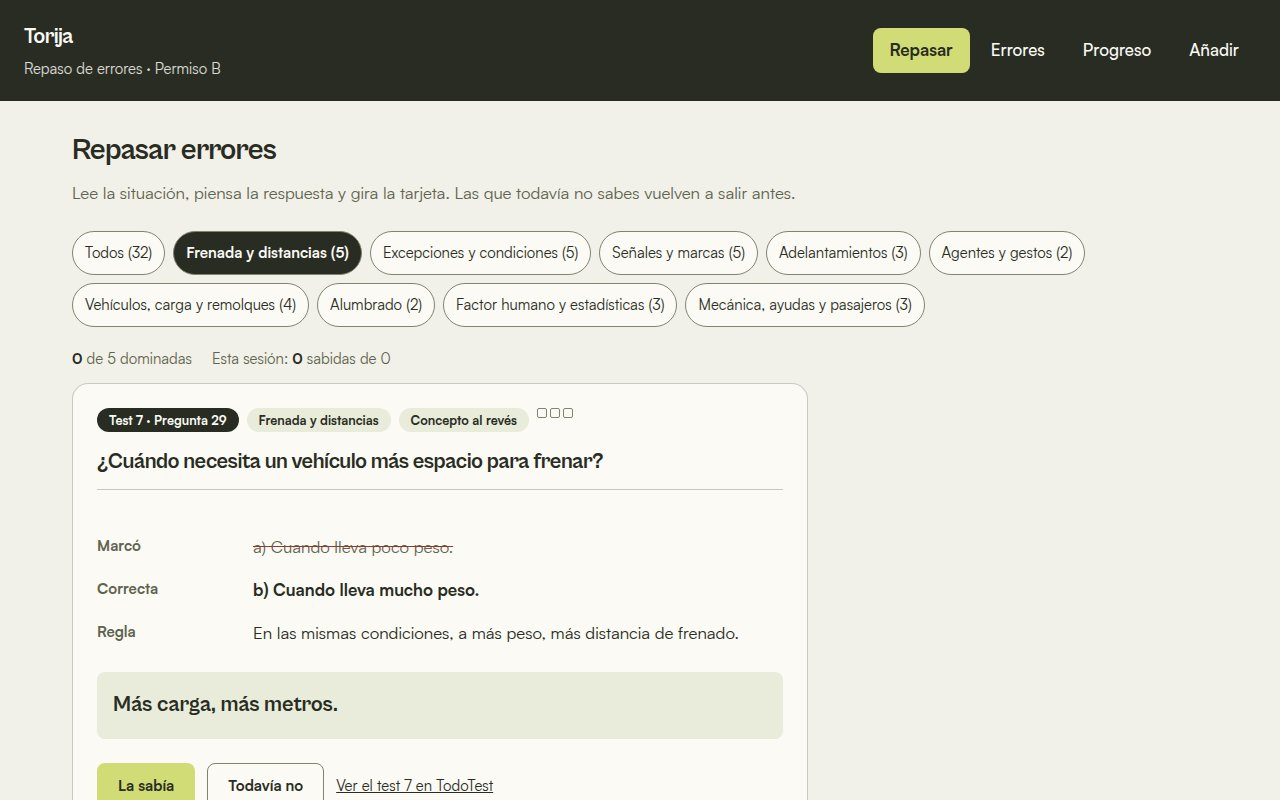
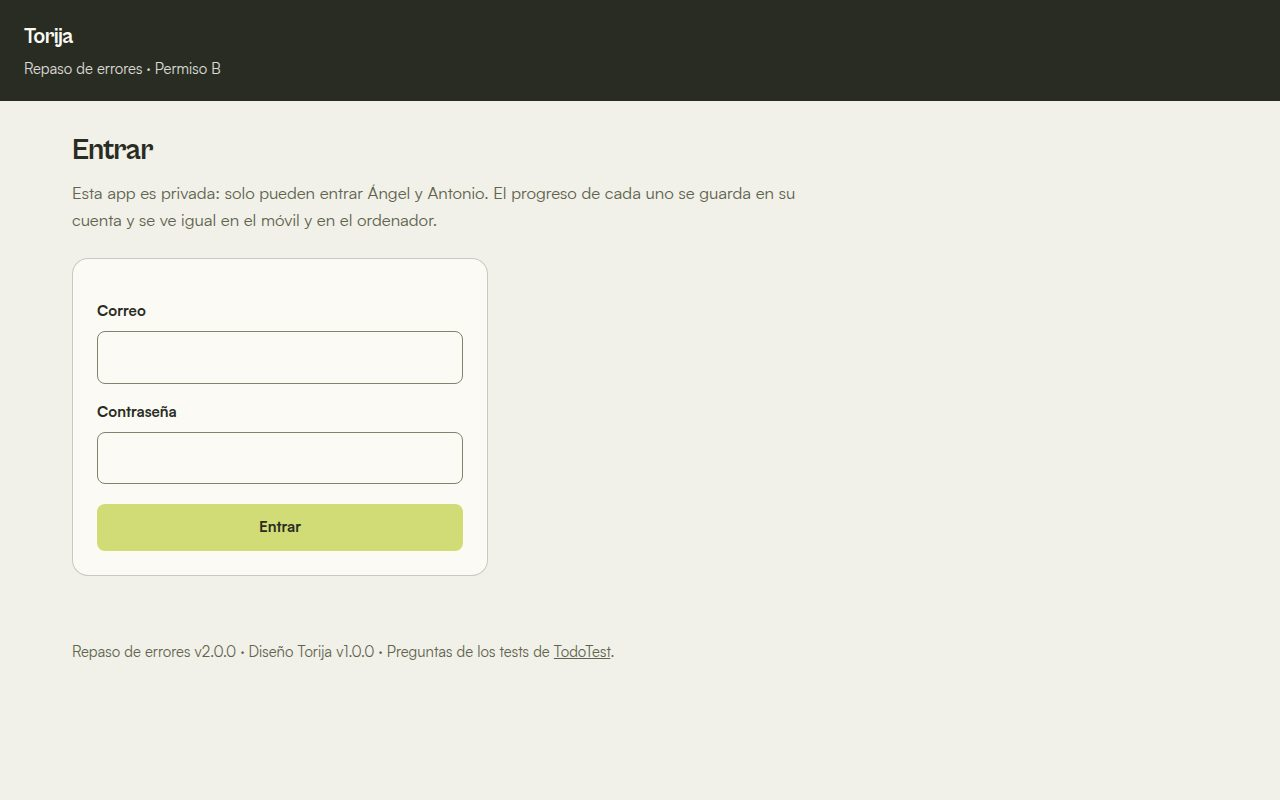
Dossier 1.3.15: Repaso de errores · Permiso B v2.0.0 con cuenta

diff --git a/index.html b/index.html
@@ -118,7 +118,7 @@ footer{border-top:1px solid var(--line);padding:28px 0 48px;color:var(--muted);f
       <div class="mode">
         <span class="tag web">Desde internet</span>
         <h2>Consulta el tipo de acceso</h2>
-        <p>Funcionan en móvil, tableta u ordenador sin instalar nada. Seis son de consulta libre: tres mapas de libros, el gestor de certámenes de pintura, el repaso del permiso B y la audiolibroteca, que pide cuenta solo para administrar. Otras dos guardan datos personales y piden una cuenta, así que sin ella solo se ve la pantalla de entrada.</p>
+        <p>Funcionan en móvil, tableta u ordenador sin instalar nada. Cinco son de consulta libre: tres mapas de libros, el gestor de certámenes de pintura y la audiolibroteca, que pide cuenta solo para administrar. Otras tres son privadas y piden una cuenta (el repaso del permiso B y dos que guardan datos personales), así que sin ella solo se ve la pantalla de entrada.</p>
       </div>
       <div class="mode">
         <span class="tag loc">En persona</span>
@@ -132,7 +132,7 @@ footer{border-top:1px solid var(--line);padding:28px 0 48px;color:var(--muted);f
     <div class="wrap">
       <div class="sechead">
         <h2>Publicados en internet</h2>
-        <p>Consulta el tipo de acceso de cada ficha: seis proyectos se consultan sin cuenta y otros dos piden iniciar sesión. Café Tokio es de acceso libre. Revisión de enlaces y versiones de Dieta y Aoyama: 25 de octubre de 2026.</p>
+        <p>Consulta el tipo de acceso de cada ficha: cinco proyectos se consultan sin cuenta y otros tres piden iniciar sesión. Café Tokio es de acceso libre. Revisión de enlaces y versiones de Dieta y Aoyama: 25 de octubre de 2026.</p>
       </div>
       <div class="grid">
 
@@ -197,12 +197,12 @@ footer{border-top:1px solid var(--line);padding:28px 0 48px;color:var(--muted);f
         </article>
 
         <article class="card">
-          <img src="img/repaso-permiso-b.jpg?v=1.0.0" alt="Tarjeta de repaso con una pregunta fallada, la respuesta marcada tachada, la correcta, la regla y una frase para memorizarla">
+          <img src="img/repaso-permiso-b.jpg?v=2.0.0" alt="Pantalla de entrada del Repaso de errores del permiso B v2.0.0, con correo y contraseña, sin datos">
           <div class="body">
-            <div class="meta"><span class="tag web">Acceso libre</span><span>v1.0.0 · Web estática · Diseño Torija</span></div>
+            <div class="meta"><span class="tag web">Con cuenta</span><span>v2.0.0 · Web con Supabase · Diseño Torija</span></div>
             <h3>Repaso de errores · Permiso B</h3>
-            <p>Ayuda a memorizar las reglas que se fallan en los tests del examen teórico de conducir. Reúne los fallos reales de cada test, clasificados en nueve temas (frenada, excepciones, señales, adelantamientos…) y en cuatro tipos de error, para distinguir si falla la regla o la lectura del enunciado. Cada fallo es una tarjeta con la respuesta correcta, la regla y una frase corta para recordarla; las que todavía no se saben vuelven a salir antes.</p>
-            <dl><dt>Cómo usarlo</dt><dd>En «Repasar», elige un tema, piensa la respuesta, gira la tarjeta y pulsa «La sabía» o «Todavía no». En «Añadir» se registran los fallos de cada test nuevo.</dd><dt>Datos</dt><dd>El progreso se guarda solo en el navegador de quien lo usa; se puede exportar una copia.</dd></dl>
+            <p>Ayuda a memorizar las reglas que se fallan en los tests del examen teórico de conducir. Reúne los fallos reales de cada test, clasificados en nueve temas (frenada, excepciones, señales, adelantamientos…) y en cuatro tipos de error, para distinguir si falla la regla o la lectura del enunciado. Cada fallo es una tarjeta con la respuesta correcta, la regla y una frase corta para recordarla; las que todavía no se saben vuelven a salir antes. Los fallos de cada test corregido en la conversación del proyecto se dan de alta solos.</p>
+            <dl><dt>Cómo usarlo</dt><dd>En «Repasar», elige un tema, piensa la respuesta, gira la tarjeta y pulsa «La sabía» o «Todavía no». En «Añadir» también se pueden registrar a mano.</dd><dt>Acceso</dt><dd>Solo Ángel y Antonio, con correo y contraseña. Sin cuenta se ve la pantalla de entrada; cada uno tiene su propio progreso, sincronizado entre dispositivos.</dd><dt>Código</dt><dd><a href="https://github.com/Torija69/repaso-permiso-b">github.com/Torija69/repaso-permiso-b</a> (privado)</dd></dl>
             <span class="print-url">https://torija69.github.io/repaso-permiso-b/</span>
             <a class="btn" href="https://torija69.github.io/repaso-permiso-b/" target="_blank" rel="noopener">Abrir el repaso →</a>
           </div>
@@ -334,7 +334,7 @@ footer{border-top:1px solid var(--line);padding:28px 0 48px;color:var(--muted);f
           <tr><td>Mapa lunes con matcha</td><td>Relaciones de personajes de una novela</td><td><a href="https://torija69.github.io/mapa-lunes-matcha/">torija69.github.io/mapa-lunes-matcha</a></td><td>v1.2.0</td></tr>
           <tr><td>Mapa de Crawlers DCC</td><td>Personajes y trenes, con control de spoilers</td><td><a href="https://torija69.github.io/dcc-mapa/">torija69.github.io/dcc-mapa</a></td><td>v1.3.0</td></tr>
           <tr><td>TrinukaCuadros</td><td>Certámenes de pintura 2026–2027</td><td><a href="https://torija69.github.io/trinukacuadros/">torija69.github.io/trinukacuadros</a></td><td>v1.1.1</td></tr>
-          <tr><td>Repaso de errores · Permiso B</td><td>Repaso de los fallos de los tests de conducir</td><td><a href="https://torija69.github.io/repaso-permiso-b/">torija69.github.io/repaso-permiso-b</a></td><td>v1.0.0 · Diseño Torija</td></tr>
+          <tr><td>Repaso de errores · Permiso B</td><td>Repaso de los fallos de los tests de conducir</td><td><a href="https://torija69.github.io/repaso-permiso-b/">torija69.github.io/repaso-permiso-b</a></td><td>v2.0.0 (con cuenta) · Diseño Torija</td></tr>
           <tr><td>CasaMarta</td><td>Venta y compra de vivienda familiar</td><td><a href="https://torija69.github.io/casamarta/">torija69.github.io/casamarta</a> (con cuenta)</td><td>v1.0.0</td></tr>
           <tr><td>Mi Plan de Dieta</td><td>Seguimiento de dieta y compra</td><td><a href="https://torija69.github.io/Dieta2026/">torija69.github.io/Dieta2026</a> (con cuenta)</td><td>v1.6.0 · Diseño Torija</td></tr>
           <tr><td>Estantería de Peluches</td><td>Peluches que conversan con IA local</td><td>Mac · <code>localhost:8790</code></td><td>v0.13.0</td></tr>
@@ -366,7 +366,7 @@ footer{border-top:1px solid var(--line);padding:28px 0 48px;color:var(--muted);f
 </main>
 
 <footer>
-  <div class="wrap">Dossier v1.3.14 · Diseño Torija v1.0.0 · Adaptación visual del 22 de octubre de 2026. Mapa DCC actualizado el 22 de octubre. Dieta v1.6.0 y su captura de acceso revisadas el 25 de octubre de 2026. Desde el 25 de octubre de 2026, todas las webs se publican en GitHub Pages con acceso libre, por indicación del propietario. Ambos mapas de Aoyama conservan v1.2.0 y sus direcciones definitivas. LaAudiolibrotecaDelTori conserva v1.3.2 y su esquema propio Audiobiblioteca. El repaso de errores del permiso B v1.0.0 se añadió el 26 de octubre de 2026. Las aplicaciones locales se muestran en su Mac; los datos personales no forman parte de las demostraciones.</div>
+  <div class="wrap">Dossier v1.3.15 · Diseño Torija v1.0.0 · Adaptación visual del 22 de octubre de 2026. Mapa DCC actualizado el 22 de octubre. Dieta v1.6.0 y su captura de acceso revisadas el 25 de octubre de 2026. Desde el 25 de octubre de 2026, todas las webs se publican en GitHub Pages con acceso libre, por indicación del propietario. Ambos mapas de Aoyama conservan v1.2.0 y sus direcciones definitivas. LaAudiolibrotecaDelTori conserva v1.3.2 y su esquema propio Audiobiblioteca. El repaso de errores del permiso B se añadió el 26 de octubre de 2026 y ese mismo día pasó a v2.0.0, con cuenta para sus dos usuarios. Las aplicaciones locales se muestran en su Mac; los datos personales no forman parte de las demostraciones.</div>
 </footer>
 </body>
 </html>
